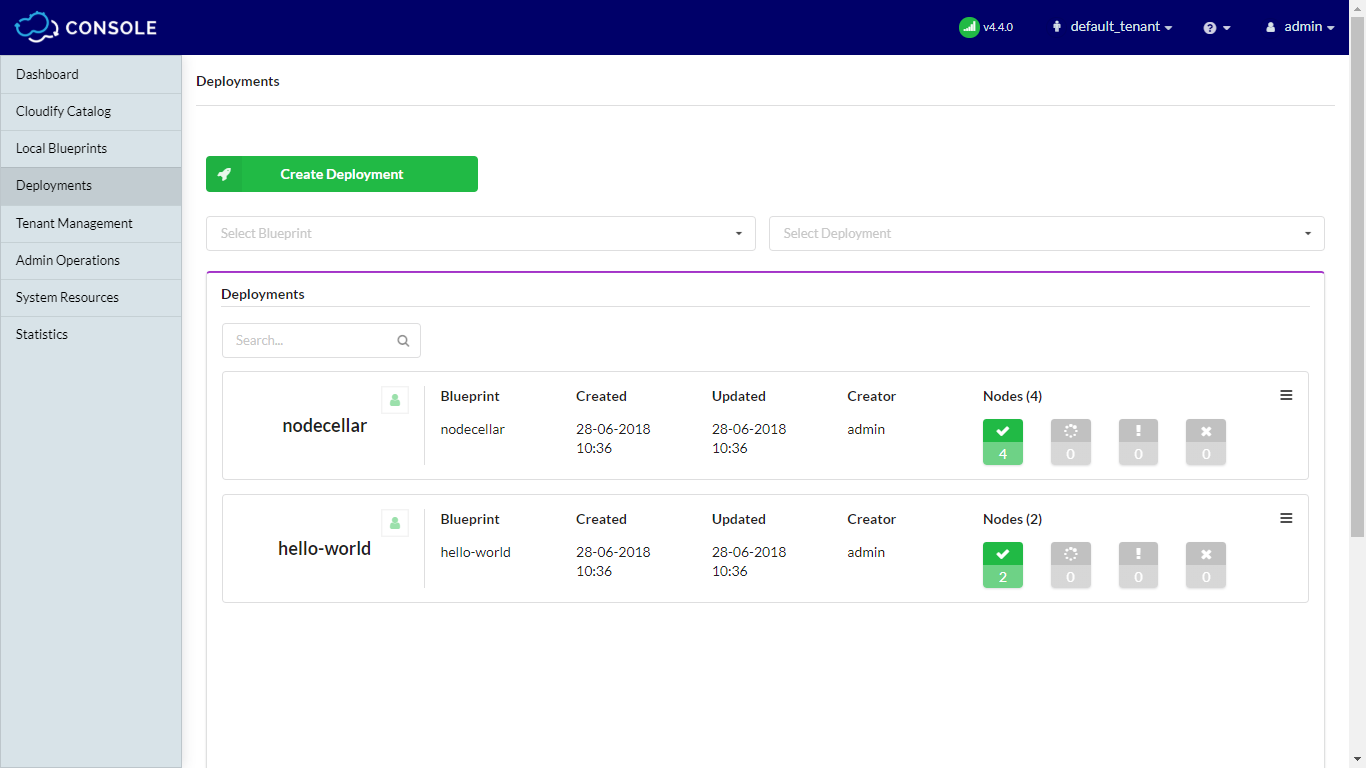
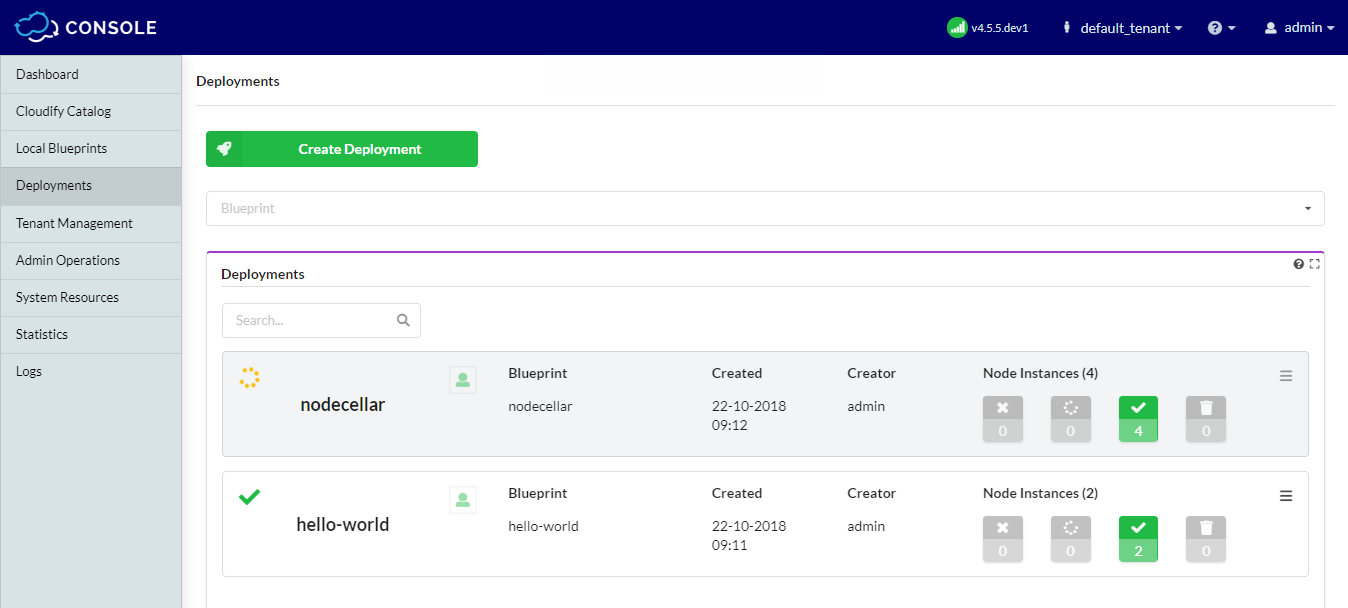
Updated Deployments page documentation

diff --git a/content/working_with/console/deployments-page.md b/content/working_with/console/deployments-page.md
@@ -22,17 +22,29 @@ You can also use **Search** input inside Deployments widget to filter deployment
 
 ![Deployments Page]( /images/ui/ui-deployments-page.png )
 
-Each deployment in the list includes details about the attached blueprint, 
-when the deployment was created and updated and the nodes on which it is deployed. 
+Each deployment in the list includes details about the attached blueprint, when the deployment was created (if it was updated icon indicating that will be shown near creation date) and the nodes on which it is deployed. 
 
-In addition, the status of the deployments on the nodes is indicated as follows:
+You can also quickly check status and logs of the last workflow executed on the deployment by hovering over the status icon in the top left corner of deployment. Depending on the type of the execution there are additional action buttons there.
 
-![Execute workflow]( /images/ui/deploymentActions/node_statuses.png )
+The last execution staus is indicated as follows:
 
-* **Green:** The number of nodes that are running
-* **Yellow:** The number of nodes that are in progress
-* **Orange:** The number of nodes that are in warning state
-* **Red:** The number of nodes that are deleted or stopped
+![Last Execution Status]( /images/ui/deploymentActions/last-execution-status.png ) 
+
+* **Red** X cross - execution has failed
+* **Yellow** spinner - execution is in progress (meaning that it is in one of the following states: pending, started, cancelling, force_cancelling, kill_cancelling)
+* **Orange** ban sign - execution has been cancelled
+* **Green** checkmark - execution has been completed
+
+
+The status of the deployments' node instances is indicated as follows:
+
+![Node Instance Statuses]( /images/ui/deploymentActions/node_statuses.png )
+
+* **Blue:** The number of node instances that are not initialized
+* **Yellow:** The number of node instances that are in active state (one of: initializing, creating, created, configuring, configured, starting, stopping, stopped and deleting)
+* **Green:** The number of node instances that are started
+* **Black:** The number of node instances that are deleted
+
 
 ## Creating a Deployment
 
@@ -49,12 +61,12 @@ The deployment is added to the list.
 
 When you click on a deployment in the list, a deployment-specific page opens that, by default, displays the following widgets. 
 
-* Topology
-* Nodes
+* Deployment Topology
+* Deployment Nodes
 * Deployment Inputs
 * Deployment Outputs
 * Deployment Executions
-* Deployment Events/Logs
+* Deployment Events/Logs with Events/Logs filter above
 * Deployment Sources
 
 You can also execute workflows, update or delete deployment from this page.
